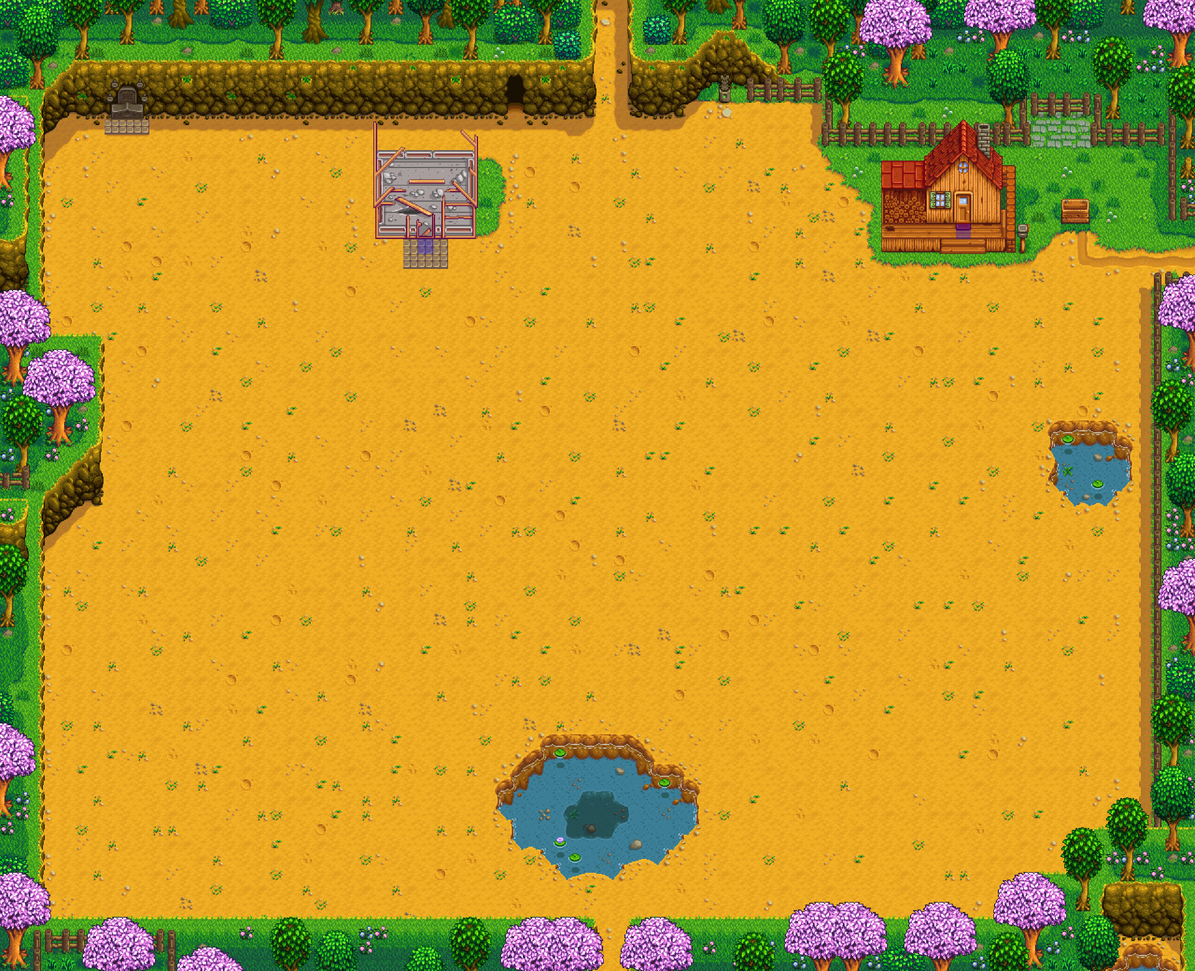
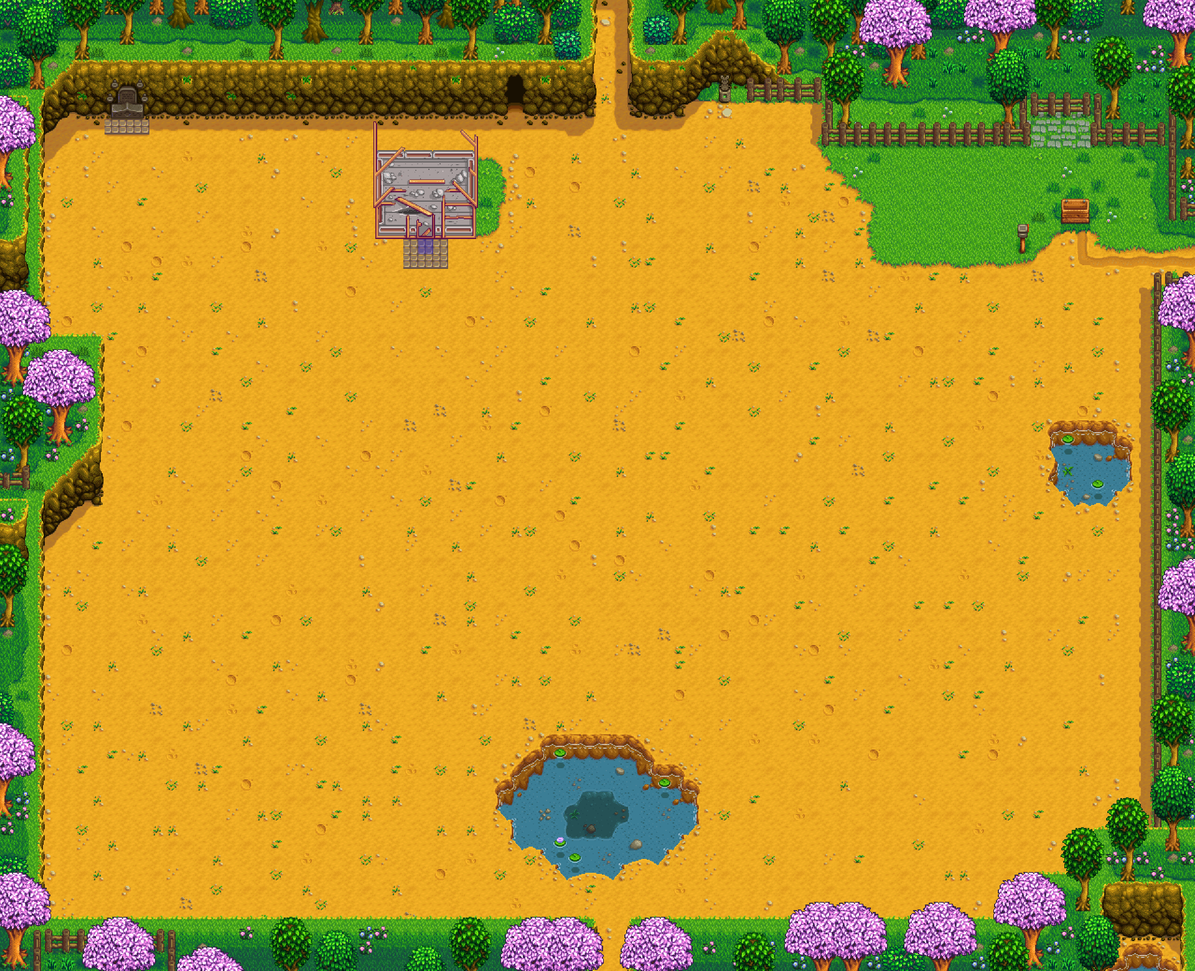
강민정 : House Tile Map 추가

Changed region(s): [[0.7188, 0.1246, 0.875, 0.2804]]

diff --git a/ContentsProject/FarmGameMode.cpp b/ContentsProject/FarmGameMode.cpp
@@ -57,8 +57,10 @@ void AFarmGameMode::PutTile()
 	FVector2D PlayerLocation = Player->GetActorLocation();
 	float TilePosX = PlayerLocation.X - FarmTileMap->GetActorLocation().X;
 	float TilePosY = PlayerLocation.Y - FarmTileMap->GetActorLocation().Y + 53;
-
 	FIntPoint Point = FarmTileMap->LocationToIndex({ TilePosX, TilePosY });
+
+	FIntPoint HousePoint = FarmTileMap->LocationToIndex({ 2550, 500 });
+	FarmTileMap->SetTileIndex("HouseTile", HousePoint, { -18, -20 }, { 361, 361 }, 0);
 
 	if (true == UEngineInput::GetInst().IsDown(VK_LBUTTON))
 	{
@@ -70,9 +72,6 @@ void AFarmGameMode::PutTile()
 
 		case ETileImage::Tree001:
 			FarmTileMap->SetTileIndex("TreeTile", Point, { 0, -113 }, { 144, 240 }, 0, false);
-			break;
-		case ETileImage::house:
-			FarmTileMap->SetTileIndex("HouseTile", Point, { 0, 0 }, { 361, 361 }, 0);
 			break;
 		default:
 			break;
@@ -92,9 +91,6 @@ void AFarmGameMode::TileChange()
 		break;
 	case ETileImage::Tree001:
 		TileImageName = "Tree001";
-		break;
-	case ETileImage::house:
-		TileImageName = "House001";
 		break;
 	default:
 		TileImageName = "Unknown";

diff --git a/ContentsProject/Player.cpp b/ContentsProject/Player.cpp
@@ -86,10 +86,7 @@ void APlayer::LevelChangeCheck()
     {
         UEngineAPICore::GetCore()->OpenLevel("Town");
     }
-    if (true == UEngineInput::GetInst().IsDown('M'))
-    {
-        UEngineAPICore::GetCore()->OpenLevel("Tile");
-    }
+
 }
 
 void APlayer::DebugCheck(float _DeltaTime)

diff --git a/ContentsProject/ContentsEnum.h b/ContentsProject/ContentsEnum.h
@@ -12,6 +12,5 @@ enum class ETileImage
 {
 	Dirt = 0,
 	Tree001,
-	house,
 	End
 };
